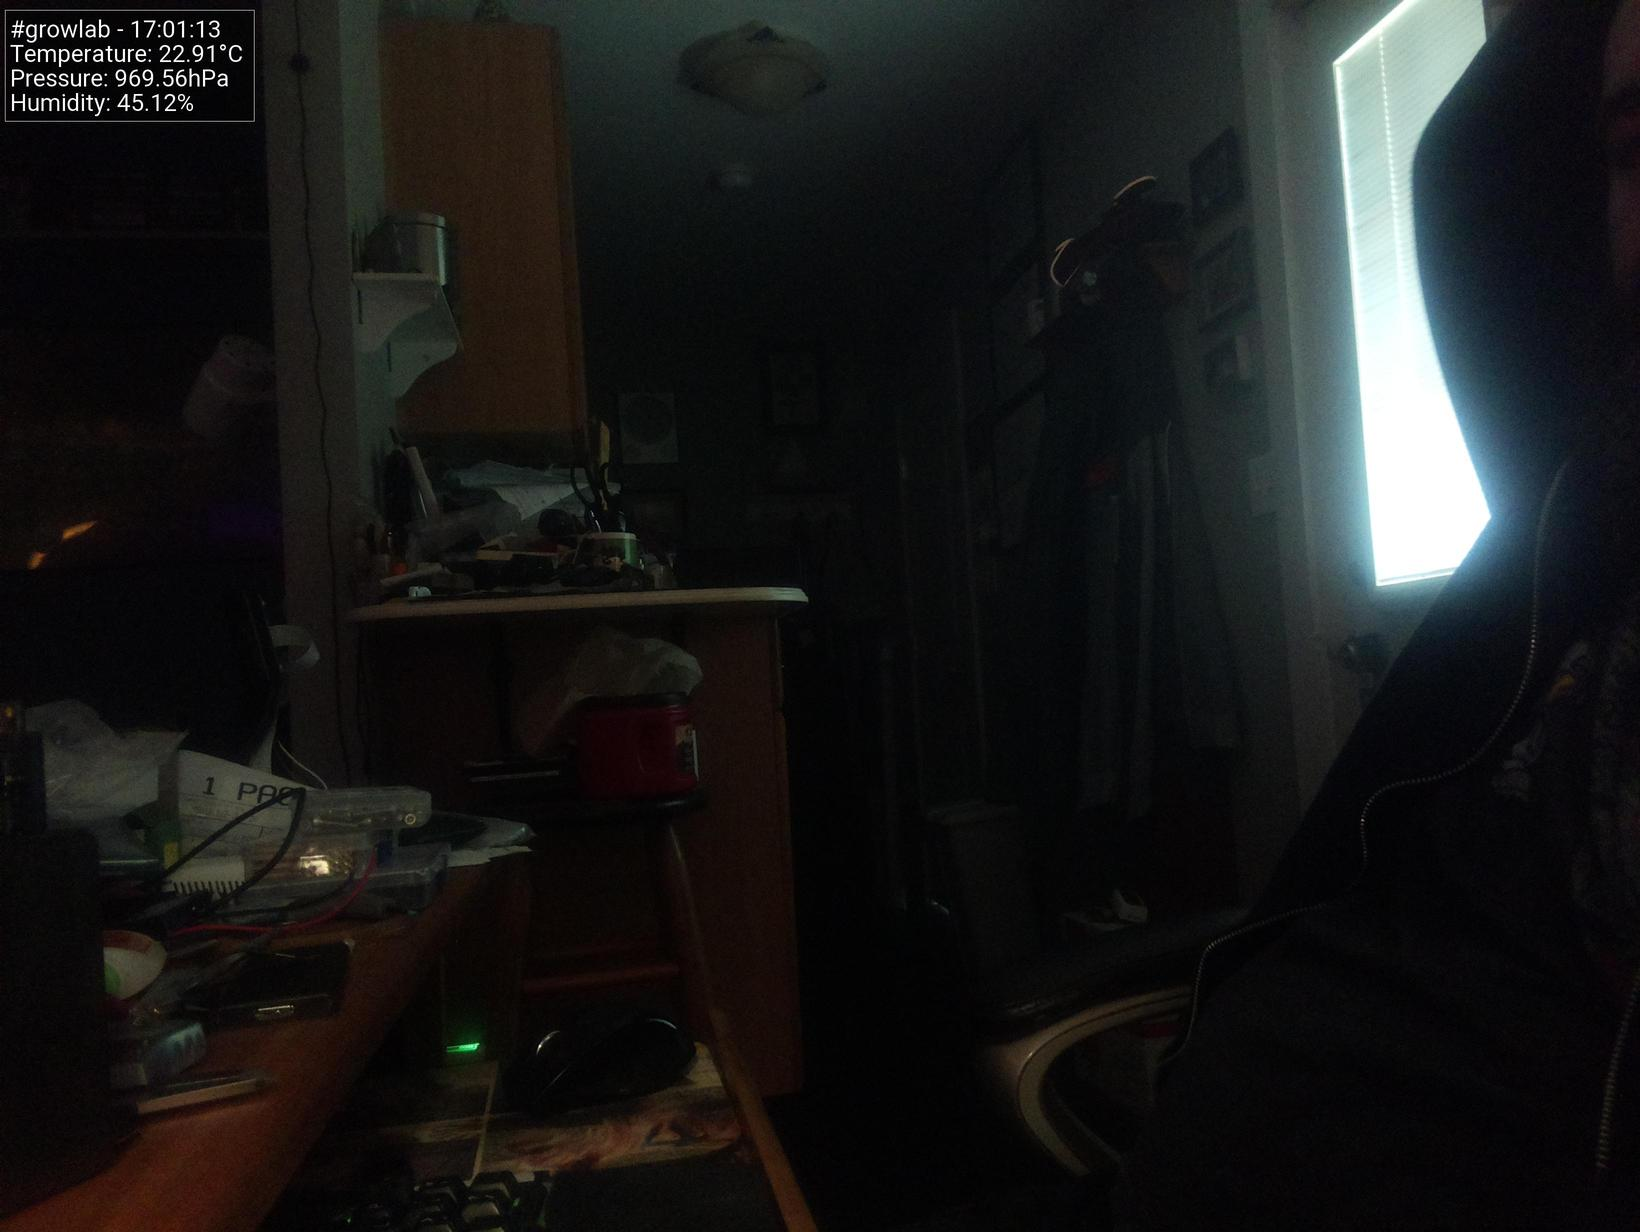
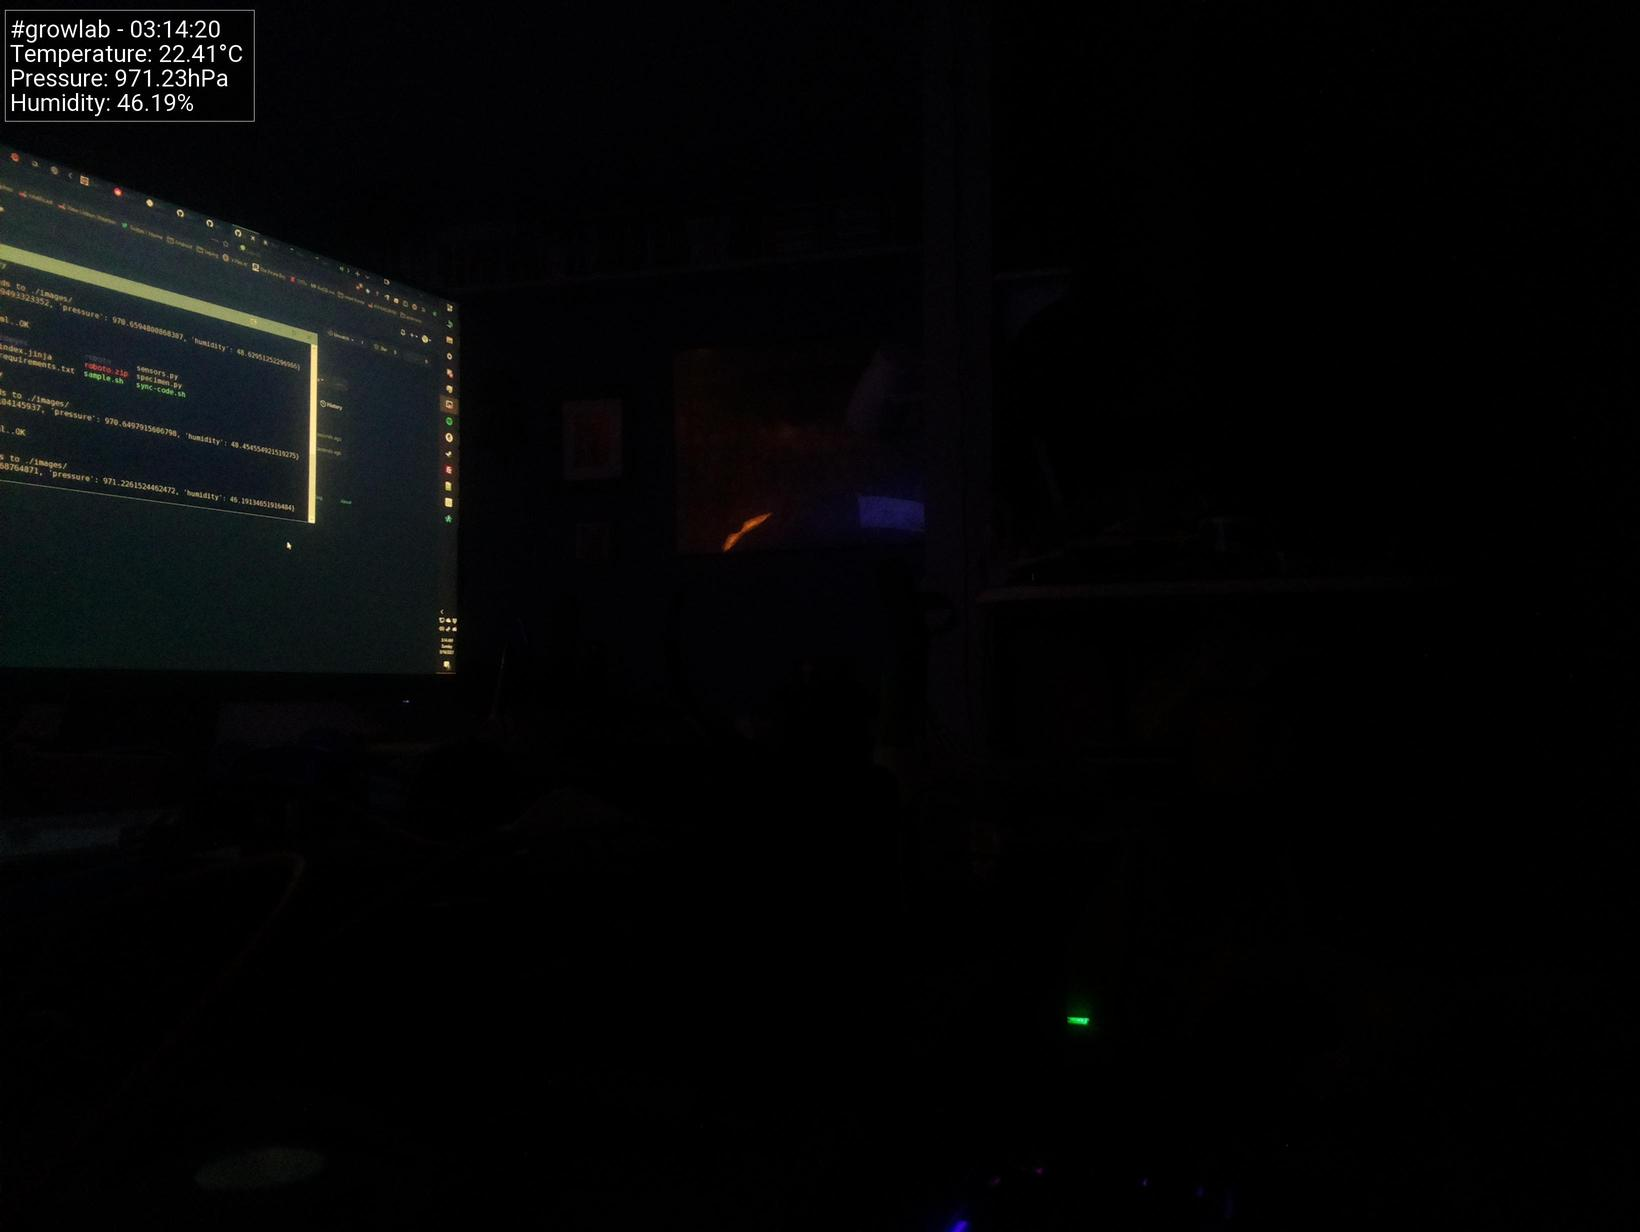
Update images at Sun May 16 03:14:32 EDT 2021

diff --git a/app/growlab-live/docs/index.html b/app/growlab-live/docs/index.html
@@ -38,19 +38,19 @@
                     <tbody>
                         <tr>
                             <td>Time</td>
-                            <td>17:01:13</td>
+                            <td>03:14:20</td>
                         </tr>
                         <tr>
                             <td>Temperature</td>
-                            <td>22.91°C</td>
+                            <td>22.41°C</td>
                         </tr>
                         <tr>
                             <td>Humidity</td>
-                            <td>45.12%</td>
+                            <td>46.19%</td>
                         </tr>
                         <tr>
                             <td>Pressure</td>
-                            <td>969.56hPa</td>
+                            <td>971.23hPa</td>
                         </tr>
                     </tbody>
                 </table>
@@ -58,7 +58,7 @@
 
                 <h5>Latest image</h5>
 		<div style="width: 85%;">
-	                <img class="figure-img img-fluid rounded" src="./preview.jpg?uid=1621112485.4136784">
+	                <img class="figure-img img-fluid rounded" src="./preview.jpg?uid=1621149271.958971">
 		</div>
             </div>
         </div>
